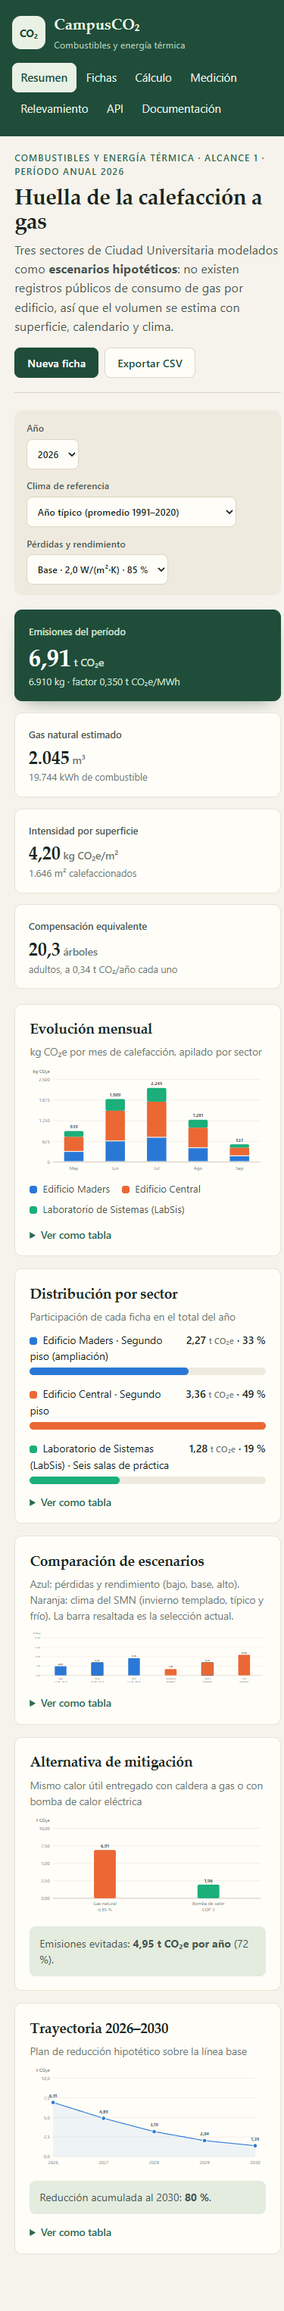
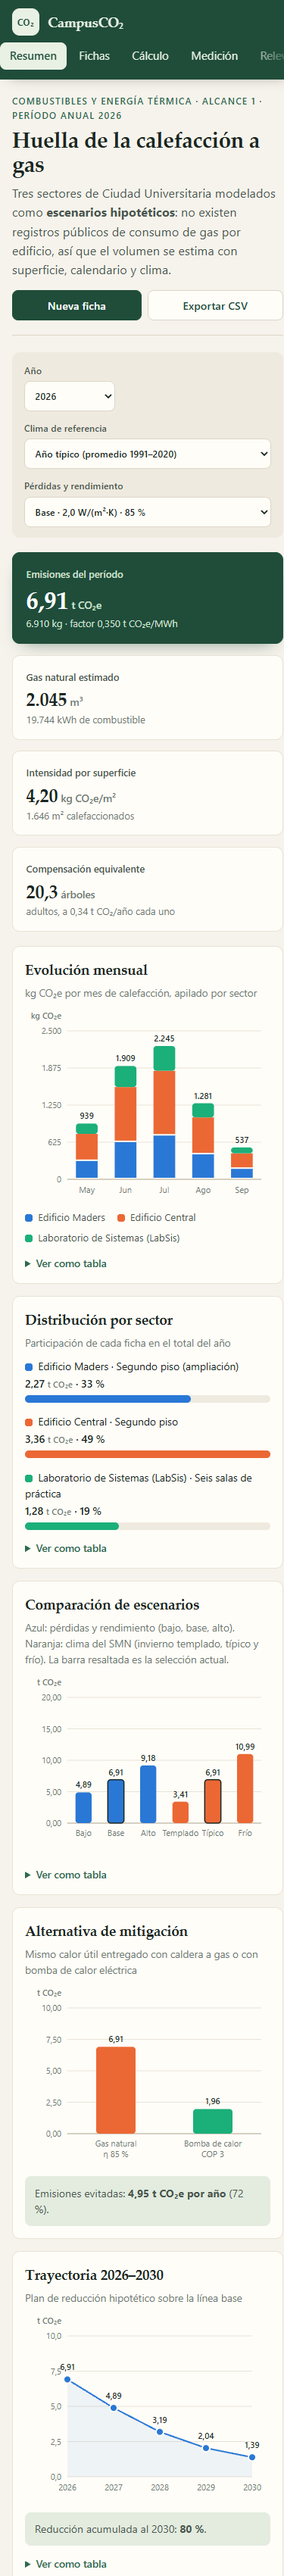
fix: diseño responsive para celular, tablet y pantallas grandes
Grilla sin desbordes, menú móvil deslizable, fichas como tarjetas,
gráficos dibujados al ancho disponible y contenido centrado en
monitores anchos.

diff --git a/css/styles.css b/css/styles.css
@@ -45,7 +45,7 @@ code { font-family: var(--mono); font-size: 0.86em; background: var(--paper-2); 
 .muted { color: var(--ink-3); }
 
 /* Estructura */
-.shell { display: grid; grid-template-columns: 248px minmax(0, 1fr); min-height: 100vh; background: linear-gradient(to right, var(--forest) 248px, var(--paper) 248px); }
+.shell { --side: 248px; display: grid; grid-template-columns: var(--side) minmax(0, 1fr); min-height: 100vh; background: linear-gradient(to right, var(--forest) var(--side), var(--paper) var(--side)); }
 .side { position: sticky; top: 0; height: 100vh; display: flex; flex-direction: column; gap: 1.4rem; padding: 1.4rem 1.1rem; background: var(--forest); color: #e9f1e4; }
 .brand { display: flex; gap: 0.7rem; align-items: center; color: inherit; text-decoration: none; }
 .brand b { display: block; font-family: var(--serif); font-size: 1.25rem; }
@@ -59,7 +59,7 @@ code { font-family: var(--mono); font-size: 0.86em; background: var(--paper-2); 
 .side-foot { margin-top: auto; font-size: 0.78rem; color: #c9d9c9; }
 .side-foot p { margin: 0.15rem 0; }
 .side-foot .muted { color: #9fb8a3; }
-.main { padding: clamp(1.2rem, 0.6rem + 2.4vw, 2.6rem); max-width: 1180px; width: 100%; outline: none; }
+.main { padding-block: clamp(1.2rem, 0.6rem + 2.4vw, 2.6rem); padding-inline: clamp(1rem, 0.2rem + 2.6vw, 3rem); width: 100%; max-width: 1320px; margin-inline: auto; outline: none; min-width: 0; }
 
 /* Encabezado de página */
 .page-head { display: flex; flex-wrap: wrap; justify-content: space-between; align-items: flex-end; gap: 1rem 2rem; padding-bottom: 1.2rem; margin-bottom: 1.4rem; border-bottom: 1px solid var(--line); }
@@ -82,7 +82,10 @@ code { font-family: var(--mono); font-size: 0.86em; background: var(--paper-2); 
 
 /* Filtros */
 .filters { display: flex; flex-wrap: wrap; gap: 0.8rem 1.2rem; margin-bottom: 1.2rem; padding: 0.9rem 1rem; background: var(--paper-2); border-radius: var(--radius); }
-.filters label { display: grid; gap: 0.25rem; font-size: 0.78rem; color: var(--ink-2); font-weight: 600; }
+.filters label { display: grid; gap: 0.25rem; font-size: 0.78rem; color: var(--ink-2); font-weight: 600; flex: 1 1 210px; min-width: 0; }
+.filters label:first-child { flex: 0 1 120px; max-width: 150px; }
+.filters label { max-width: 380px; }
+.filters select { width: 100%; }
 select, input, textarea { font: inherit; color: var(--ink); background: var(--card); border: 1px solid var(--line); border-radius: 8px; padding: 0.5rem 0.6rem; min-height: 40px; max-width: 100%; }
 select:hover, input:hover, textarea:hover { border-color: #c4baa6; }
 input[aria-invalid="true"] { border-color: var(--danger); background: #fff6f4; }
@@ -180,6 +183,7 @@ code.body { display: block; white-space: pre-wrap; word-break: break-all; font-s
 .fields.one { grid-template-columns: 1fr; }
 .field { display: grid; gap: 0.3rem; font-size: 0.85rem; font-weight: 600; color: var(--ink-2); }
 .field small { font-weight: 400; }
+.field input, .field select, .field textarea { width: 100%; min-width: 0; }
 .error { font-style: normal; font-weight: 500; font-size: 0.8rem; color: var(--danger); min-height: 0; }
 .error:empty { display: none; }
 .chips { display: flex; flex-wrap: wrap; gap: 0.4rem; margin: 0.4rem 0 0.4rem; }
@@ -188,12 +192,17 @@ code.body { display: block; white-space: pre-wrap; word-break: break-all; font-s
 .chip input:checked + span { background: var(--forest); border-color: var(--forest); color: #fff; }
 .chip input:focus-visible + span { outline: 2px solid var(--series-1); outline-offset: 2px; }
 .rooms { display: grid; gap: 0.5rem; margin-top: 0.7rem; }
-.room { display: grid; grid-template-columns: minmax(90px, 1.3fr) minmax(70px, 1fr) auto minmax(70px, 1fr) 80px auto; gap: 0.5rem; align-items: center; }
+.room { display: grid; grid-template-columns: minmax(110px, 1.4fr) minmax(72px, 1fr) auto minmax(72px, 1fr) 88px auto; gap: 0.5rem; align-items: end; }
+.room label { display: grid; gap: 0.2rem; font-size: 0.75rem; font-weight: 600; color: var(--ink-3); min-width: 0; }
+.room input { width: 100%; min-width: 0; }
+.room:not(:first-child) label span { position: absolute; width: 1px; height: 1px; overflow: hidden; clip: rect(0 0 0 0); white-space: nowrap; }
+.room-x, .room-area, .room-rm { align-self: center; }
+.room:first-child .room-x, .room:first-child .room-area, .room:first-child .room-rm { align-self: end; padding-bottom: 0.6rem; }
 .room output { font-variant-numeric: tabular-nums; font-size: 0.85rem; color: var(--ink-2); }
 .rooms-foot { display: flex; justify-content: space-between; align-items: center; margin-top: 0.7rem; font-size: 0.9rem; }
 .preview { grid-column: 2; grid-row: 1 / span 5; position: sticky; top: 1rem; }
 .sheet-actions { grid-column: 1; display: flex; justify-content: flex-end; gap: 0.6rem; }
-.confirm { position: fixed; inset: auto 1rem 1rem auto; max-width: 380px; z-index: 15; padding: 1rem; background: var(--card); border: 1px solid var(--line); border-radius: var(--radius); box-shadow: 0 16px 40px -18px rgba(0, 0, 0, 0.45); }
+.confirm { position: fixed; right: 1rem; bottom: 1rem; width: min(380px, calc(100vw - 2rem)); z-index: 15; padding: 1rem; background: var(--card); border: 1px solid var(--line); border-radius: var(--radius); box-shadow: 0 16px 40px -18px rgba(0, 0, 0, 0.45); }
 .confirm p { margin: 0 0 0.8rem; }
 .confirm div { display: flex; justify-content: flex-end; gap: 0.5rem; }
 .reset-row { text-align: right; font-size: 0.85rem; }
@@ -214,23 +223,78 @@ code.body { display: block; white-space: pre-wrap; word-break: break-all; font-s
 .toast { position: fixed; left: 50%; bottom: 1.2rem; transform: translateX(-50%); z-index: 30; padding: 0.6rem 1rem; background: var(--ink); color: #fff; border-radius: 8px; font-size: 0.9rem; box-shadow: 0 10px 30px -12px rgba(0, 0, 0, 0.5); }
 .noscript { padding: 2rem; text-align: center; }
 
-@media (max-width: 1100px) {
-  .kpis { grid-template-columns: repeat(2, 1fr); }
-  .sheet { grid-template-columns: 1fr; }
+/* ---------- Pantallas grandes ---------- */
+@media (min-width: 1600px) {
+  body { font-size: 16px; }
+  .shell { --side: 272px; }
+  .main { max-width: 1560px; }
+  .kpis { gap: 1.1rem; }
+  .grid-2 { gap: 1.25rem; }
+  .panel { padding: 1.35rem 1.5rem; }
+  .tick, .value { font-size: 12px; }
+}
+@media (min-width: 2200px) {
+  body { font-size: 17px; }
+  .shell { --side: 300px; }
+  .main { max-width: 1840px; }
+}
+
+/* ---------- Notebook y tablet horizontal ---------- */
+@media (max-width: 1180px) {
+  .shell { --side: 220px; }
+  .grid-2 { grid-template-columns: minmax(0, 1fr); }
+  .kpis { grid-template-columns: repeat(2, minmax(0, 1fr)); }
+  .kpi.hero { grid-column: 1 / -1; }
+  .sheet { grid-template-columns: minmax(0, 1fr); }
   .preview { grid-column: 1; grid-row: auto; position: static; }
 }
+
+/* ---------- Tablet y celular: barra superior ---------- */
 @media (max-width: 860px) {
-  .shell { grid-template-columns: 1fr; background: var(--paper); }
-  .side { position: static; height: auto; gap: 0.8rem; padding: 1rem; }
-  .side nav { flex-direction: row; flex-wrap: wrap; }
+  .shell { grid-template-columns: minmax(0, 1fr); background: var(--paper); }
+  .side { position: sticky; top: 0; z-index: 12; height: auto; gap: 0.55rem; padding: 0.7rem 1rem 0.45rem; box-shadow: 0 6px 18px -12px rgba(0, 0, 0, 0.5); }
+  .logo { width: 36px; height: 36px; border-radius: 10px; font-size: 0.78rem; }
+  .brand b { font-size: 1.1rem; }
+  .side nav { flex-direction: row; flex-wrap: nowrap; gap: 0.25rem; overflow-x: auto; margin: 0 -1rem; padding: 0 1rem 0.35rem; scrollbar-width: none; scroll-snap-type: x proximity; }
+  .side nav::-webkit-scrollbar { display: none; }
+  .side nav { -webkit-mask-image: linear-gradient(to right, #000 82%, transparent); mask-image: linear-gradient(to right, #000 82%, transparent); }
+  .side nav a { flex: 0 0 auto; white-space: nowrap; padding: 0.4rem 0.8rem; scroll-snap-align: start; }
   .nav-label, .side-foot { display: none; }
-  .grid-2 { grid-template-columns: 1fr; }
-  .formula li { grid-template-columns: 1fr; gap: 0.2rem; }
-  .kv div { grid-template-columns: 1fr; gap: 0.1rem; }
+  .formula li { grid-template-columns: minmax(0, 1fr); gap: 0.2rem; }
+  .formula em { white-space: normal; }
+  .kv div { grid-template-columns: minmax(0, 1fr); gap: 0.1rem; }
+  .tabs { flex-wrap: nowrap; overflow-x: auto; scrollbar-width: none; padding-bottom: 0.2rem; }
+  .tabs a { flex: 0 0 auto; white-space: nowrap; }
 }
-@media (max-width: 520px) {
-  .kpis { grid-template-columns: 1fr; }
-  .room { grid-template-columns: 1fr 1fr; }
-  .room span[aria-hidden] { display: none; }
+
+/* ---------- Celular ---------- */
+@media (max-width: 640px) {
+  .page-head { gap: 0.9rem; }
+  .head-actions { width: 100%; }
+  .head-actions .button { flex: 1 1 auto; }
+  .panel { padding: 1rem; }
+  .sheet fieldset { padding: 0.9rem; }
+  .fields { grid-template-columns: minmax(0, 1fr); }
+  .share-head { flex-direction: column; gap: 0.1rem; }
+  .room { grid-template-columns: minmax(0, 1fr) auto minmax(0, 1fr); padding: 0.7rem; background: var(--paper); border-radius: 8px; align-items: end; }
+  .room-name { grid-column: 1 / -1; }
+  .room .room-x { align-self: end; padding-bottom: 0.6rem; }
+  .room .room-area { grid-column: 1 / 3; align-self: center; padding: 0; }
+  .room .room-rm { justify-self: end; align-self: center; padding: 0; }
+  .room:not(:first-child) label span { position: static; width: auto; height: auto; overflow: visible; clip: auto; }
+  .rooms-foot { flex-wrap: wrap; gap: 0.6rem; }
+  .sheet-actions .button { flex: 1 1 auto; }
+  .table-wrap:has(.records) { overflow: visible; }
+  .records thead { display: none; }
+  .records, .records tbody, .records tr, .records td { display: block; width: 100%; }
+  .records tr { padding: 0.9rem 0; border-bottom: 1px solid var(--line); }
+  .records td { border: 0; padding: 0.2rem 0; text-align: left; }
+  .records td[data-label] { display: flex; justify-content: space-between; align-items: baseline; gap: 1rem; text-align: right; }
+  .records td[data-label]::before { content: attr(data-label); color: var(--ink-3); font-size: 0.8rem; text-align: left; }
+  .records td.actions { display: flex; justify-content: flex-start; gap: 1.2rem; padding-top: 0.6rem; }
+}
+@media (max-width: 480px) {
+  .kpis { grid-template-columns: minmax(0, 1fr); }
+  .brand small { display: none; }
 }
 @media (prefers-reduced-motion: reduce) { * { transition: none !important; } }

diff --git a/js/views/fichas.js b/js/views/fichas.js
@@ -9,11 +9,11 @@ export function renderFichas(all) {
     const res = calculate(r);
     return `<tr>
       <td><i class="swatch" style="background:${colorFor(all, r.id)}"></i><strong>${esc(r.building)}</strong><br><small>${esc(r.sector)} · ${esc(r.site)}</small></td>
-      <td class="num">${r.year}</td>
-      <td><span class="tag">Hipotético</span><br><small>${esc(AREA_ORIGINS[r.areaOrigin])}</small></td>
-      <td class="num">${fmt(res.area, 0)}</td>
-      <td class="num">${fmt(res.m3, 0)}</td>
-      <td class="num">${fmt(res.tCO2e, 2)}</td>
+      <td class="num" data-label="Año">${r.year}</td>
+      <td data-label="Tipo de dato"><span class="tag">Hipotético</span><br><small>${esc(AREA_ORIGINS[r.areaOrigin])}</small></td>
+      <td class="num" data-label="Superficie">${fmt(res.area, 0)} m²</td>
+      <td class="num" data-label="Gas">${fmt(res.m3, 0)} m³</td>
+      <td class="num" data-label="Emisiones">${fmt(res.tCO2e, 2)} t CO₂e</td>
       <td class="actions"><a href="#calculo/${encodeURIComponent(r.id)}">Ver cálculo</a><a href="#carga/${encodeURIComponent(r.id)}">Editar</a><button type="button" class="link danger" data-delete="${esc(r.id)}">Eliminar</button></td>
     </tr>`;
   }).join('');
@@ -23,7 +23,7 @@ export function renderFichas(all) {
     <div class="head-actions"><a class="button" href="#carga">Nueva ficha</a><button class="button ghost" type="button" data-export="csv">Exportar CSV</button><button class="button ghost" type="button" data-export="json">Exportar JSON</button></div></header>
   ${all.length === 0 ? '<div class="empty"><p>No hay fichas. Cargá una o restablecé los escenarios iniciales.</p></div>' : `
   <div class="panel table-wrap"><table class="records">
-    <thead><tr><th>Sector</th><th class="num">Año</th><th>Tipo de dato</th><th class="num">m²</th><th class="num">Gas m³</th><th class="num">t CO₂e</th><th><span class="sr-only">Acciones</span></th></tr></thead>
+    <thead><tr><th>Sector</th><th class="num">Año</th><th>Tipo de dato</th><th class="num">Superficie</th><th class="num">Gas</th><th class="num">Emisiones</th><th><span class="sr-only">Acciones</span></th></tr></thead>
     <tbody>${rows}</tbody></table></div>`}
   <div class="confirm" data-confirm hidden><p>¿Eliminar la ficha <strong data-confirm-name></strong>? Esta acción no se puede deshacer.</p><div><button type="button" class="button ghost" data-confirm-cancel>Cancelar</button><button type="button" class="button danger" data-confirm-ok>Eliminar</button></div></div>
   <p class="reset-row"><button type="button" class="link" data-reset>Restablecer los tres escenarios iniciales</button></p>`;
@@ -32,14 +32,16 @@ export function renderFichas(all) {
 const field = (name, label, value, attrs = '', hint = '') => `
   <label class="field" data-field="${name}"><span>${label}</span><input name="${name}" value="${esc(value)}" ${attrs}>${hint ? `<small>${hint}</small>` : ''}<em class="error" data-error="${name}"></em></label>`;
 
+const dec = (v) => (typeof v === 'number' && Number.isFinite(v) ? String(v).replace('.', ',') : v ?? '');
+
 function roomRow(room = { name: '', length: '', width: '' }) {
   return `<div class="room" data-room>
-    <input aria-label="Nombre del ambiente" name="roomName" value="${esc(room.name)}" placeholder="Aula 1">
-    <input aria-label="Largo (m)" name="roomLength" inputmode="decimal" value="${esc(room.length)}" placeholder="Largo m">
-    <span aria-hidden="true">×</span>
-    <input aria-label="Ancho (m)" name="roomWidth" inputmode="decimal" value="${esc(room.width)}" placeholder="Ancho m">
-    <output data-room-area></output>
-    <button type="button" class="link danger" data-room-remove aria-label="Quitar ambiente">Quitar</button></div>`;
+    <label class="room-name"><span>Ambiente</span><input name="roomName" value="${esc(room.name)}" placeholder="Aula 1"></label>
+    <label class="room-len"><span>Largo (m)</span><input name="roomLength" inputmode="decimal" value="${esc(dec(room.length))}" placeholder="8,5"></label>
+    <span class="room-x" aria-hidden="true">×</span>
+    <label class="room-wid"><span>Ancho (m)</span><input name="roomWidth" inputmode="decimal" value="${esc(dec(room.width))}" placeholder="6"></label>
+    <output class="room-area" data-room-area></output>
+    <button type="button" class="link danger room-rm" data-room-remove>Quitar</button></div>`;
 }
 
 export function blankRecord() {

diff --git a/js/views/resumen.js b/js/views/resumen.js
@@ -18,7 +18,7 @@ function filtersBar(years, f) {
   </form>`;
 }
 
-export function renderResumen(all, f) {
+export function renderResumen(all, f, layout = { chartW: 560, wideW: 1040 }) {
   const years = [...new Set(all.map((r) => r.year))].sort();
   const year = years.includes(Number(f.year)) ? Number(f.year) : years.at(-1);
   const records = all.filter((r) => r.year === year);
@@ -31,6 +31,7 @@ export function renderResumen(all, f) {
   const keys = records.map((r) => ({ key: r.id, label: r.building, color: colorFor(all, r.id) }));
 
   const monthly = stackedBars({
+    width: layout.chartW,
     title: 'Emisiones por mes y sector',
     unit: 'kg CO₂e', keys,
     groups: agg.byMonth.map((m) => ({
@@ -56,9 +57,10 @@ export function renderResumen(all, f) {
     const label = { warm: 'Templado', mean: 'Típico', cold: 'Frío' }[c];
     return { label, sub: 'invierno', value: a.tCO2e, color: 'var(--series-2)', emphasis: c === f.climate, tip: `${CLIMATE_LABELS[c]}: ${fmt(a.m3, 0)} m³ · ${fmt(a.tCO2e, 2)} t CO₂e` };
   });
-  const scenarioChart = compareBars({ width: 1040, title: 'Comparación de escenarios', unit: 't CO₂e', digits: 2, items: [...sensItems, ...climItems] });
+  const scenarioChart = compareBars({ width: layout.wideW, title: 'Comparación de escenarios', unit: 't CO₂e', digits: 2, items: [...sensItems, ...climItems] });
 
   const alt = compareBars({
+    width: layout.chartW,
     title: 'Gas natural frente a bomba de calor', unit: 't CO₂e', digits: 2,
     items: [
       { label: 'Gas natural', sub: `η ${s.efficiency} %`, value: agg.tCO2e, color: 'var(--series-2)', tip: `Caldera a gas: ${fmt(agg.gasKWh, 0)} kWh → ${fmt(agg.tCO2e, 2)} t CO₂e` },
@@ -68,6 +70,7 @@ export function renderResumen(all, f) {
 
   const plan = reductionPlan(records);
   const trajectory = lineChart({
+    width: layout.chartW,
     title: 'Trayectoria del plan de reducción 2026–2030', unit: 't CO₂e', digits: 2,
     points: plan.map((p) => ({ label: String(p.year), value: p.tCO2e, tip: `${p.year} · ${p.label}: ${fmt(p.tCO2e, 2)} t CO₂e` })),
   });
@@ -91,7 +94,7 @@ export function renderResumen(all, f) {
     <section class="panel chart"><header><h2>Evolución mensual</h2><p>kg CO₂e por mes de calefacción, apilado por sector</p></header>${monthly}${legend(keys)}
       ${dataTable(['Mes', ...records.map((r) => r.building), 'Total kg CO₂e'], agg.byMonth.map((m) => [MONTHS[m.month - 1], ...records.map((r) => fmt(m.parts.find((p) => p.id === r.id)?.kgCO2e ?? 0, 0)), fmt(m.kgCO2e, 0)]))}</section>
     <section class="panel chart"><header><h2>Distribución por sector</h2><p>Participación de cada ficha en el total del año</p></header>${share}
-      ${dataTable(['Sector', 'm²', 'm³', 't CO₂e'], agg.results.map(({ record, result }) => [`${record.building} · ${record.sector}`, fmt(result.area, 0), fmt(result.m3, 0), fmt(result.tCO2e, 2)]))}</section>
+      ${dataTable(['Sector', 'm²', 'm³', 't CO₂e'], agg.results.map(({ record, result }) => [`${record.building} · ${record.sector}`, fmt(result.area, 0), fmt(result.m3, 0), fmt(result.tCO2e, 2)]), layout.chartW >= 480 && window.matchMedia('(min-width: 1181px)').matches)}</section>
     <section class="panel chart wide"><header><h2>Comparación de escenarios</h2><p>Azul: pérdidas y rendimiento (bajo, base, alto). Naranja: clima del SMN (invierno templado, típico y frío). La barra resaltada es la selección actual.</p></header>${scenarioChart}
       ${dataTable(['Escenario', 'Detalle', 't CO₂e'], [...sensItems, ...climItems].map((i) => [i.label, i.sub, fmt(i.value, 2)]))}</section>
     <section class="panel chart"><header><h2>Alternativa de mitigación</h2><p>Mismo calor útil entregado con caldera a gas o con bomba de calor eléctrica</p></header>${alt}

diff --git a/js/charts.js b/js/charts.js
@@ -20,8 +20,8 @@ function yGrid(max, x0, x1, yOf, unit, digits = 0) {
 }
 
 /** Barras verticales apiladas. groups: [{label, parts:[{key, value, tip}]}], keys: [{key,label,color}] */
-export function stackedBars({ groups, keys, unit, digits = 0, title }) {
-  const W = 560, H = 260, L = 56, R = 12, T = 30, B = 34;
+export function stackedBars({ groups, keys, unit, digits = 0, title, width = 560 }) {
+  const W = width, H = 260, L = 56, R = 12, T = 30, B = 34;
   const totals = groups.map((g) => g.parts.reduce((a, p) => a + p.value, 0));
   const max = niceMax(Math.max(...totals, 0));
   const band = (W - L - R) / Math.max(groups.length, 1);
@@ -68,14 +68,14 @@ export function compareBars({ items, unit, digits = 0, title, width = 560 }) {
     return `<rect class="mark${it.emphasis ? ' emphasis' : ''}" x="${x}" y="${y}" width="${bw}" height="${Math.max(0, yOf(0) - y)}" rx="4" fill="${it.color}" data-tip="${esc(it.tip)}"/>
       <text class="value" x="${x + bw / 2}" y="${y - 6}" text-anchor="middle">${fmt(it.value, digits)}</text>
       <text class="tick" x="${x + bw / 2}" y="${H - B + 17}" text-anchor="middle">${esc(it.label)}</text>
-      <text class="tick muted" x="${x + bw / 2}" y="${H - B + 31}" text-anchor="middle">${esc(it.sub ?? '')}</text>`;
+      ${band >= 78 ? `<text class="tick muted" x="${x + bw / 2}" y="${H - B + 31}" text-anchor="middle">${esc(it.sub ?? '')}</text>` : ''}`;
   }).join('');
   return `<svg viewBox="0 0 ${W} ${H}" role="img" aria-label="${esc(title)}">${yGrid(max, L, W - R, yOf, unit, digits)}<line class="axis" x1="${L}" x2="${W - R}" y1="${yOf(0)}" y2="${yOf(0)}"/>${bars}</svg>`;
 }
 
 /** Línea con marcadores (una serie). points: [{label, value, tip}] */
-export function lineChart({ points, unit, digits = 2, title, color = 'var(--series-1)' }) {
-  const W = 560, H = 250, L = 56, R = 24, T = 30, B = 34;
+export function lineChart({ points, unit, digits = 2, title, color = 'var(--series-1)', width = 560 }) {
+  const W = width, H = 250, L = 56, R = 24, T = 30, B = 34;
   const max = niceMax(Math.max(...points.map((p) => p.value), 0));
   const step = (W - L - R) / Math.max(points.length - 1, 1);
   const yOf = (v) => T + (H - T - B) * (1 - v / max);
@@ -95,8 +95,8 @@ export function legend(keys) {
   return `<ul class="legend">${keys.map((k) => `<li><i class="swatch" style="background:${k.color}"></i>${esc(k.label)}</li>`).join('')}</ul>`;
 }
 
-export function dataTable(headers, rows) {
-  return `<details class="table-view"><summary>Ver como tabla</summary><div class="table-wrap"><table>
+export function dataTable(headers, rows, open = false) {
+  return `<details class="table-view"${open ? ' open' : ''}><summary>Ver como tabla</summary><div class="table-wrap"><table>
     <thead><tr>${headers.map((h) => `<th>${esc(h)}</th>`).join('')}</tr></thead>
     <tbody>${rows.map((r) => `<tr>${r.map((c, i) => `<td${i ? ' class="num"' : ''}>${esc(c)}</td>`).join('')}</tr>`).join('')}</tbody>
   </table></div></details>`;

diff --git a/js/app.js b/js/app.js
@@ -32,13 +32,24 @@ function route() {
   return { view: TITLES[view] ? view : 'resumen', param: decodeURIComponent(param) };
 }
 
-function render() {
+/** Ancho real disponible para los gráficos (se dibujan a escala 1:1 para que el texto sea legible). */
+function chartLayout() {
+  const cs = getComputedStyle(main);
+  const avail = main.clientWidth - parseFloat(cs.paddingLeft) - parseFloat(cs.paddingRight);
+  const twoCols = window.matchMedia('(min-width: 1181px)').matches;
+  const panelPad = window.matchMedia('(max-width: 640px)').matches ? 34 : 42;
+  const fit = (w) => Math.round(Math.min(1400, Math.max(260, w - panelPad)));
+  return { chartW: fit(twoCols ? (avail - 20) / 2 : avail), wideW: fit(avail) };
+}
+let lastLayout = '';
+
+function render({ keepFocus = false } = {}) {
   const { view, param } = route();
   const all = repo.findAll();
   document.querySelectorAll('[data-nav] a').forEach((a) => a.toggleAttribute('aria-current', a.getAttribute('href') === `#${view}`));
   document.title = `${TITLES[view]} · CampusCO₂ Grupo 2`;
   const views = {
-    resumen: () => renderResumen(all, filters),
+    resumen: () => { const l = chartLayout(); lastLayout = `${l.chartW}|${l.wideW}`; return renderResumen(all, filters, l); },
     fichas: () => renderFichas(all),
     carga: () => {
       const existing = param ? all.find((r) => r.id === param) : null;
@@ -53,7 +64,8 @@ function render() {
   main.innerHTML = views[view]();
   if (view === 'carga') bindSheet(param && all.find((r) => r.id === param));
   if (view === 'api' && !readApiLog()) runApiCheck(false);
-  main.focus({ preventScroll: true });
+  if (!keepFocus) main.focus({ preventScroll: true });
+  document.querySelector('[data-nav] a[aria-current]')?.scrollIntoView({ block: 'nearest', inline: 'center' });
   if (repo.warning) say(repo.warning);
 }
 
@@ -185,6 +197,19 @@ document.addEventListener('keydown', (e) => {
   if (e.key === 'Escape') { const box = main.querySelector('[data-confirm]'); if (box && !box.hidden) box.hidden = true; }
 });
 
-window.addEventListener('hashchange', render);
+window.addEventListener('hashchange', () => render());
+// Redibuja los gráficos cuando cambia el ancho disponible (rotar el teléfono, redimensionar la ventana).
+let resizeTimer;
+let lastMainWidth = main.clientWidth;
+new ResizeObserver(() => {
+  if (main.clientWidth === lastMainWidth) return;
+  lastMainWidth = main.clientWidth;
+  clearTimeout(resizeTimer);
+  resizeTimer = setTimeout(() => {
+    if (route().view !== 'resumen') return;
+    const l = chartLayout();
+    if (`${l.chartW}|${l.wideW}` !== lastLayout) render({ keepFocus: true });
+  }, 150);
+}).observe(main);
 installTooltip(main);
 render();
